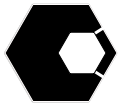
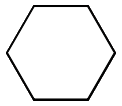
Slight asset swap, altered how sub goals are chosen to make it deterministic. Fixed buttons to be flat again

diff --git a/lib/setStage.js b/lib/setStage.js
@@ -745,14 +745,14 @@
       Board.loadBoard(window.BOARDNAME);
       window.updateMenu();
     };
-    resetBorder = new PIXI.Sprite(this.borderBox(50, 25));
-    resetBorder.position.x = -15;
-    resetBorder.position.y = -11;
-    resetButton.addChild(resetBorder);
     resetBack = new PIXI.Sprite(this.backBox(50, 25));
     resetBack.position.x = -15;
     resetBack.position.y = -11;
     resetButton.addChild(resetBack);
+    resetBorder = new PIXI.Sprite(this.borderBox(50, 25));
+    resetBorder.position.x = -15;
+    resetBorder.position.y = -11;
+    resetButton.addChild(resetBorder);
     this.menu.addChild(resetButton);
     helpButton = new PIXI.Text("Help", this.menuContentStyle);
     helpButton.interactive = true;
@@ -767,14 +767,14 @@
         }
       }
     };
-    helpBorder = new PIXI.Sprite(this.borderBox(45, 25));
-    helpBorder.position.x = -15;
-    helpBorder.position.y = -11;
-    helpButton.addChild(helpBorder);
     helpBack = new PIXI.Sprite(this.backBox(45, 25));
     helpBack.position.x = -15;
     helpBack.position.y = -11;
     helpButton.addChild(helpBack);
+    helpBorder = new PIXI.Sprite(this.borderBox(45, 25));
+    helpBorder.position.x = -15;
+    helpBorder.position.y = -11;
+    helpButton.addChild(helpBorder);
     this.menu.addChild(helpButton);
     easyButton = new PIXI.Text("Easy", this.menuContentStyle);
     easyButton.interactive = true;
@@ -852,14 +852,14 @@
       prevLvl.setText("<< " + (this.level - 1));
       prevLvl.interactive = true;
       size = this.level > 10 ? 55 : 45;
-      prevBorder = new PIXI.Sprite(this.borderBox(size, 25));
-      prevBorder.position.x = -15;
-      prevBorder.position.y = -11;
-      prevLvl.addChild(prevBorder);
       prevBack = new PIXI.Sprite(this.backBox(size, 25));
       prevBack.position.x = -15;
       prevBack.position.y = -11;
       prevLvl.addChild(prevBack);
+      prevBorder = new PIXI.Sprite(this.borderBox(size, 25));
+      prevBorder.position.x = -15;
+      prevBorder.position.y = -11;
+      prevLvl.addChild(prevBorder);
     } else {
       prevLvl.setText("     ");
       prevLvl.interactive = false;
@@ -873,14 +873,14 @@
       nextLvl.setText((this.level + 1) + " >>");
       nextLvl.interactive = true;
       size = this.level > 8 ? 55 : 45;
-      nextBorder = new PIXI.Sprite(this.borderBox(size, 25));
-      nextBorder.position.x = -15;
-      nextBorder.position.y = -11;
-      nextLvl.addChild(nextBorder);
       nextBack = new PIXI.Sprite(this.backBox(size, 25));
       nextBack.position.x = -15;
       nextBack.position.y = -11;
       nextLvl.addChild(nextBack);
+      nextBorder = new PIXI.Sprite(this.borderBox(size, 25));
+      nextBorder.position.x = -15;
+      nextBorder.position.y = -11;
+      nextLvl.addChild(nextBorder);
     } else {
       nextLvl.setText("     ");
       nextLvl.interactive = false;
@@ -1001,8 +1001,8 @@
     this.BOARD.moves = 0;
     for (i = _l = 1; _l <= removeCount; i = _l += 1) {
       r = Math.floor(Math.random() * goalArr.length);
-      window.BOARD[goalArr[r]]--;
-      goalArr.splice(r, 1);
+      window.BOARD[goalArr[i]]--;
+      goalArr.splice(i, 1);
     }
     goalBoard = new Board(colors.length, 1);
     i = 0;
